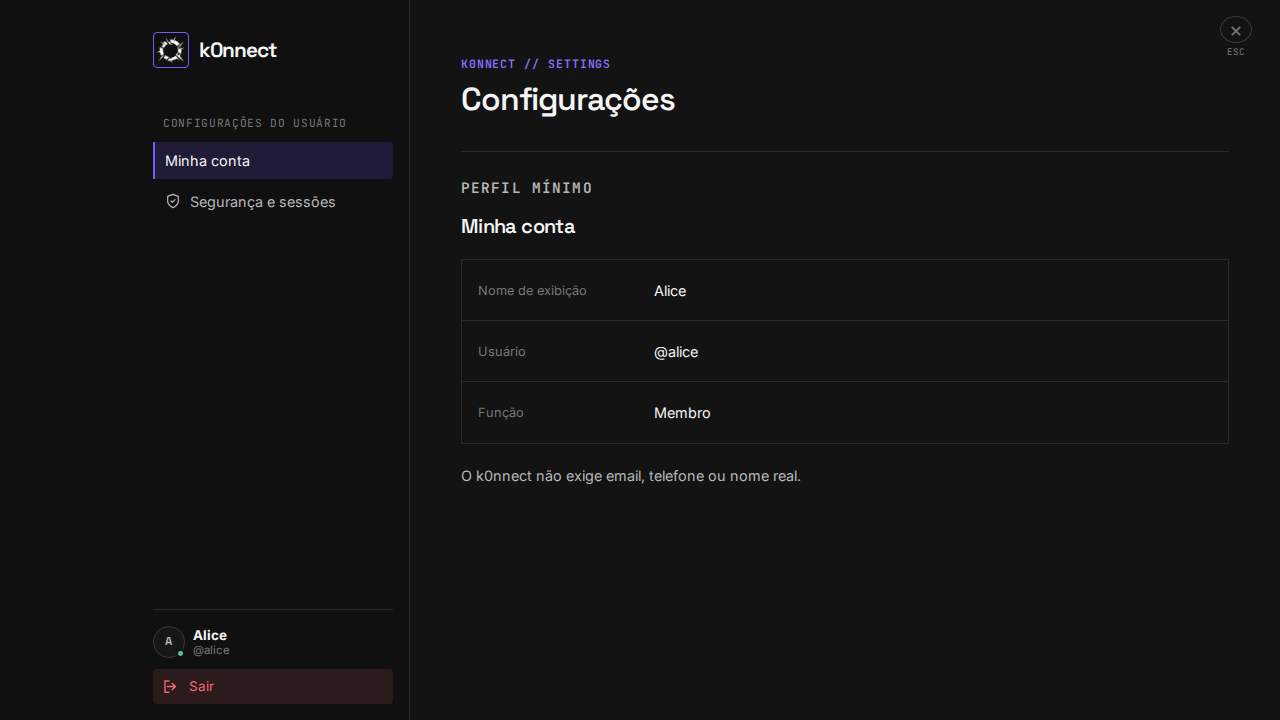
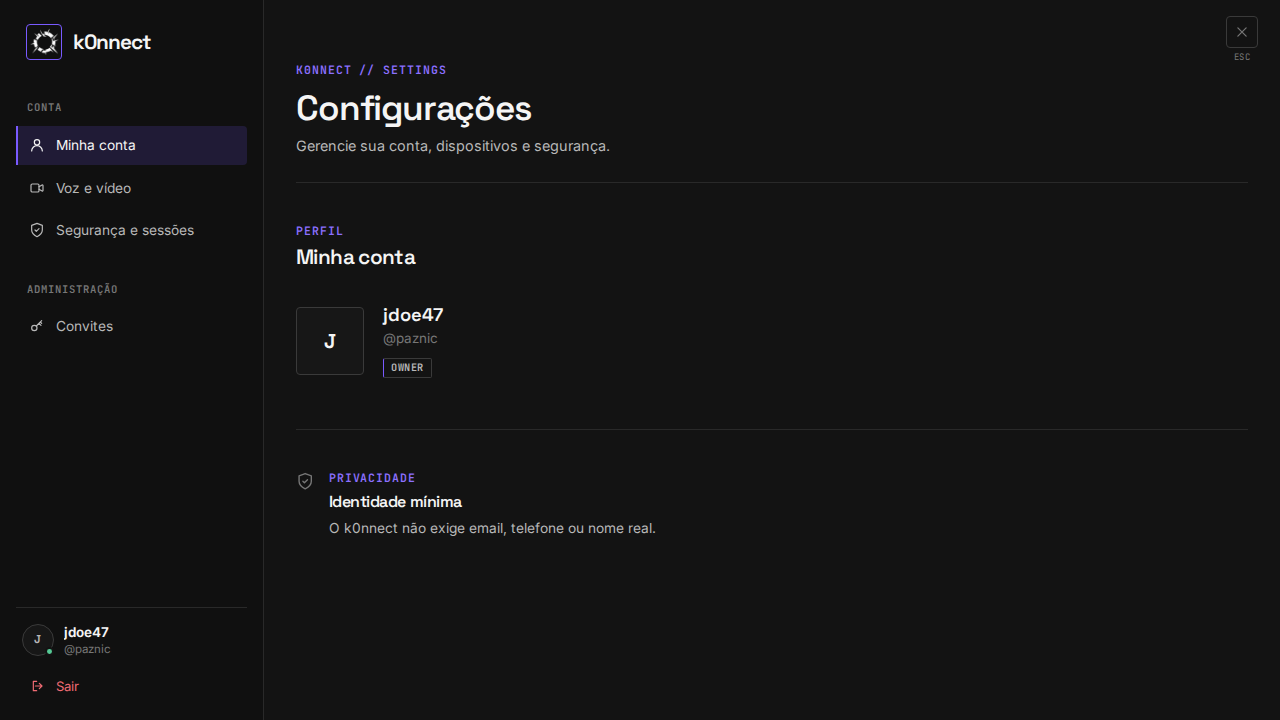
docs(settings): update layout reference and screenshots

diff --git a/docs/frontend-design-system.md b/docs/frontend-design-system.md
@@ -55,6 +55,14 @@ No desktop amplo, o shell contém rail de grupos, canais, conteúdo e membros. E
 
 A área principal da sala usa `AudioOnlyView`, isolada do shell, para aceitar futuramente visualizações de vídeo ou compartilhamento sem reestruturar a navegação.
 
+## Layout de configurações
+
+No desktop, configurações usam uma sidebar fixa de navegação e uma área de conteúdo centralizada com largura máxima de 960 px. Conta, dispositivos e segurança formam o grupo pessoal; convites aparecem em Administração somente para owner e admin. Cada área possui rota própria, mantendo a leitura e o foco de teclado previsíveis.
+
+Abaixo de 760 px, a sidebar vira um menu sobreposto acionado pelo cabeçalho. A página selecionada ocupa toda a largura disponível, formulários passam para uma coluna e listas administrativas preservam linhas compactas. O fechamento pelo controle superior ou pela tecla `Escape` retorna à aplicação.
+
+Informações de conta usam identidade, username e badge de role. Convites usam metadados contextuais e status textual, com confirmação explícita antes da revogação. Bordas e espaçamento separam seções sem transformar cada bloco em card.
+
 ## Acessibilidade
 
 O sistema exige HTML semântico, um único título principal por tela, labels de formulário, foco visível, nomes acessíveis, `aria-current`, `aria-expanded`, alvos de toque adequados e contraste compatível com o tema escuro. Conteúdo não depende somente de cor para comunicar estado.
